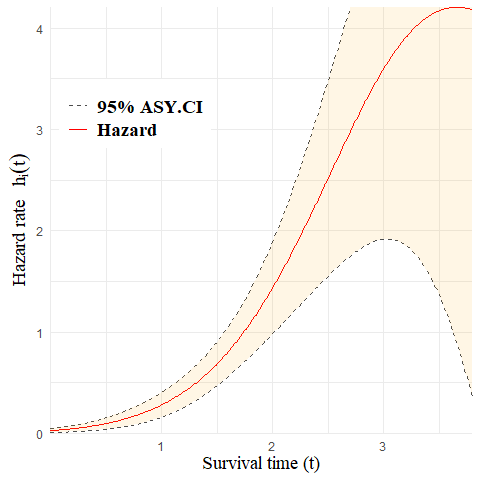
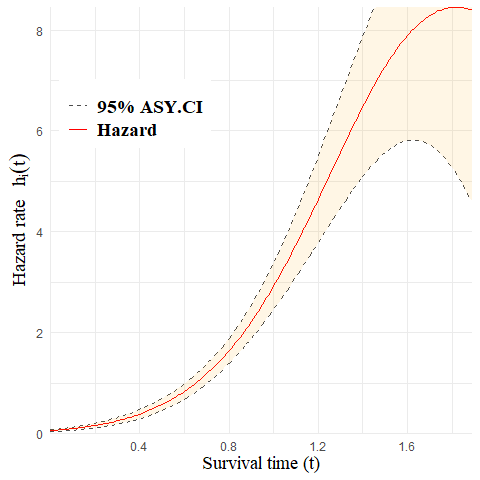
add baseline

diff --git a/README.md b/README.md
@@ -74,25 +74,25 @@ summary(aft_fit)
 ## Make a Prediction
 
 ``` r
-predict(aft_fit, x = c(1, -1), type = "survival", time = c(0.5, 1, 1.5), interval = TRUE)
-#>   times estimates     lower     upper
-#> 1   0.5 0.9721379 0.9636682 0.9806075
-#> 2   1.0 0.8900091 0.8629769 0.9170412
-#> 3   1.5 0.7071282 0.6579292 0.7563271
+predict(aft_fit, x = NULL, type = "survival", time = c(0.5, 1, 1.5), interval = TRUE)
+#>   times  estimates     lower      upper
+#> 1   0.5 0.88890025 0.8616654 0.91613514
+#> 2   1.0 0.41755969 0.3607609 0.47435851
+#> 3   1.5 0.03252873 0.0136310 0.05142647
 ```
 
-## Plot a Predicted Survival Curve
+## Plot a Predicted Baseline Survival Curve
 
 ``` r
-plot_sur(fit = aft_fit, x = c(1, -1))
+plot_sur(fit = aft_fit, x = NULL)
 ```
 
 <img src="man/figures/README-survival-1.png" style="display: block; margin: auto;" />
 
-## Plot a Predicted Hazard Curve
+## Plot a Predicted Baseline Hazard Curve
 
 ``` r
-plot_hz(fit = aft_fit, x = c(1, -1))
+plot_hz(fit = aft_fit, x = NULL)
 ```
 
 <img src="man/figures/README-hazard-1.png" style="display: block; margin: auto;" />
